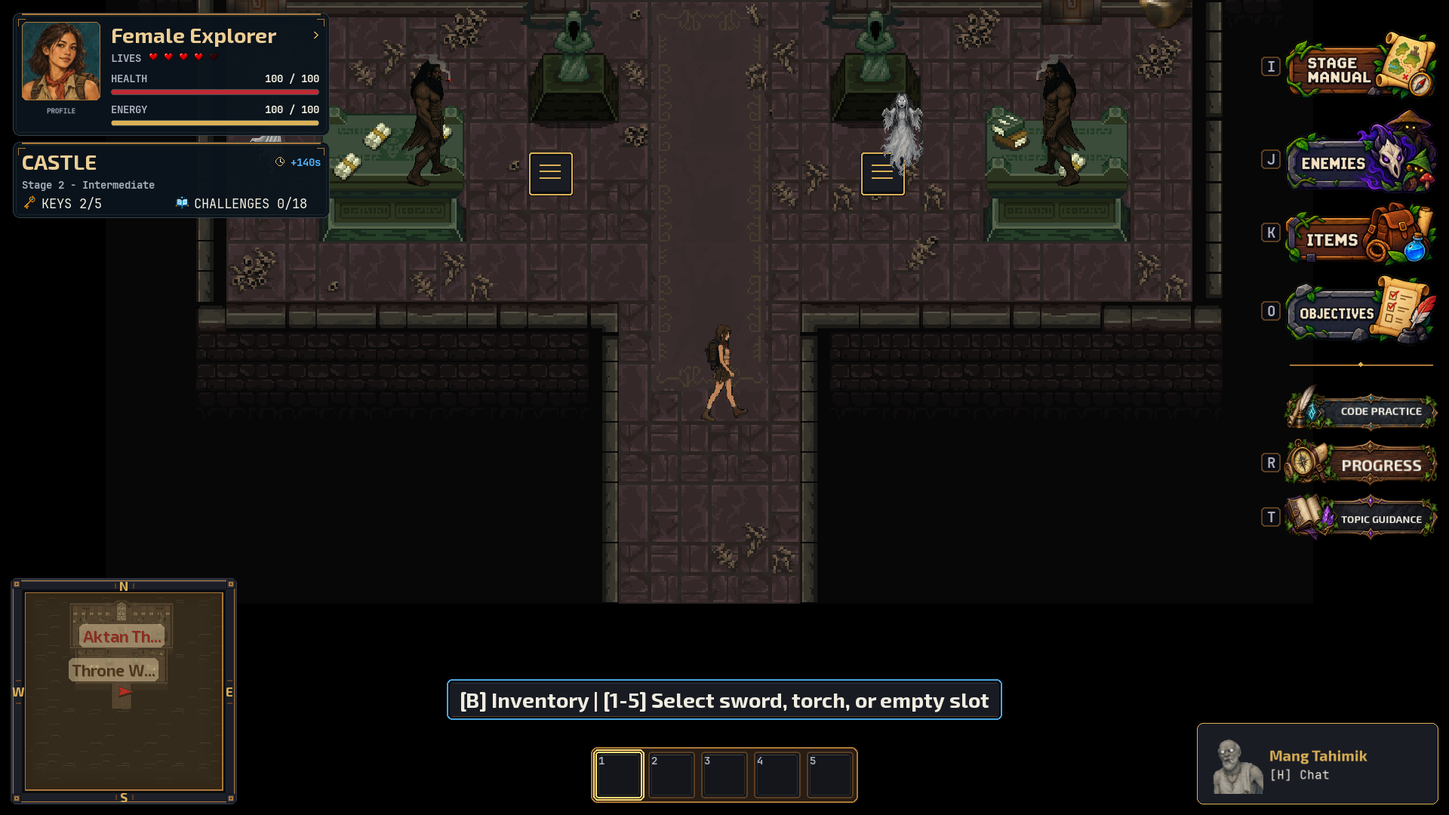
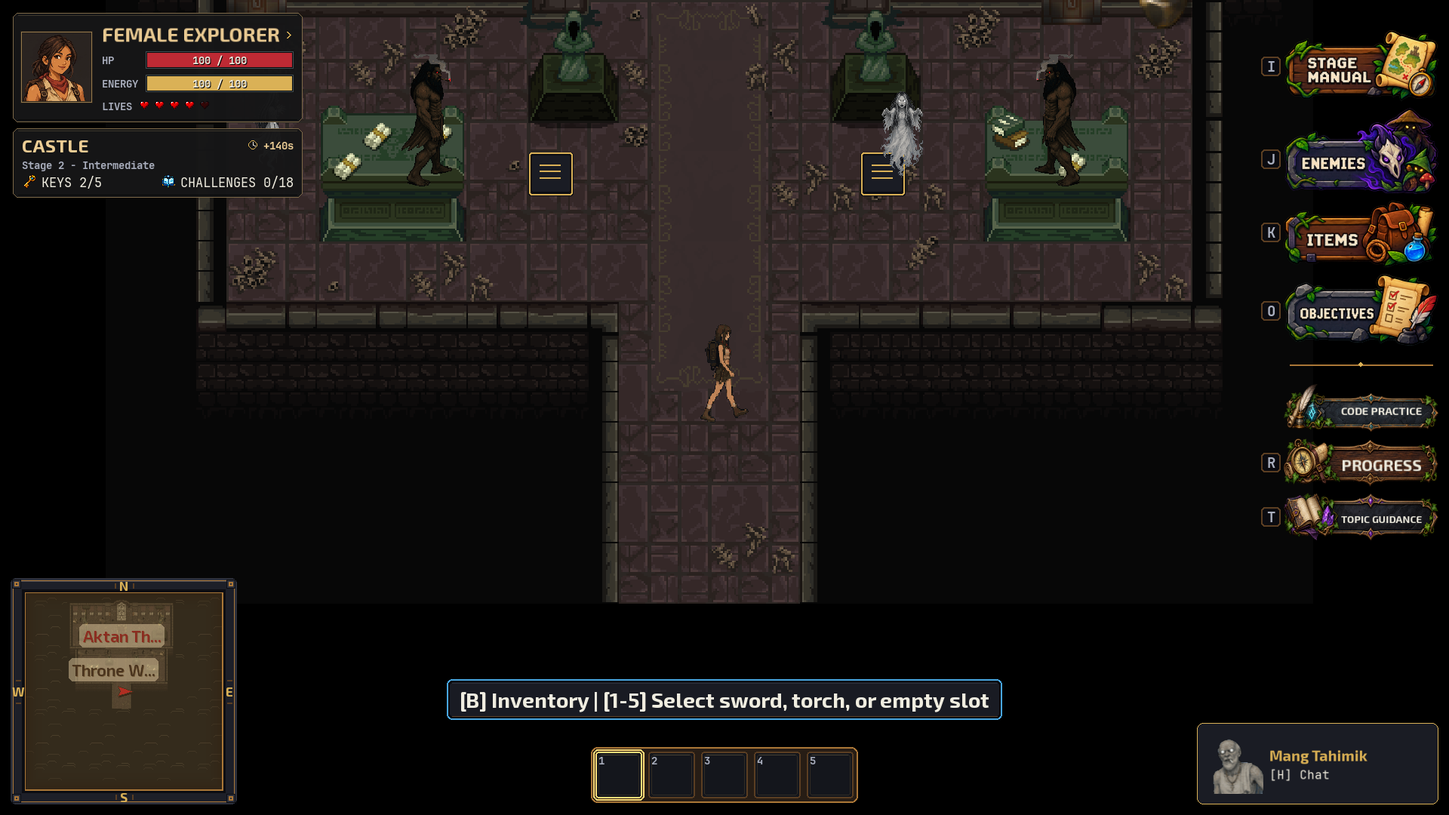
fix: match explorer portraits and HUD to pixel-art gameplay
Use simplified pixel-art-style portraits with nearest-neighbor scaling, warm charcoal cut-corner plates, and compact HP/energy gauges with centred values. Put lives below the gauges, reduce the stage heading, and carry the same treatment into the expanded profile.

Keep the preceding portrait assets available for rollback, preserve character IDs and saves, and document the new generation prompts. Update the actual gameplay preview.

Verified 34 character, text-layout and HCI tests in separate processes. Captured both explorers in actual Castle gameplay and opened their profiles by clicking the real character card.

Changed region(s): [[0.0, 0.0, 0.25, 0.275]]

diff --git a/src/ui/gameplay_hud.py b/src/ui/gameplay_hud.py
@@ -131,7 +131,7 @@ def _load_portrait_asset(identity):
 
 
 def draw_profile_frame(surface, rect, emphasized=False):
-    """Quiet ink-blue card, shared by the HUD and expanded profile."""
+    """A compact cut-corner game plate, shared with the expanded profile."""
     surface.blit(_profile_frame(rect.size, emphasized), rect)
 
 
@@ -139,15 +139,14 @@ def draw_profile_frame(surface, rect, emphasized=False):
 def _profile_frame(size, emphasized):
     panel = pygame.Surface(size, pygame.SRCALPHA)
     local = panel.get_rect()
-    pygame.draw.rect(panel, (11, 20, 28, 246), local, border_radius=9)
-    pygame.draw.rect(panel, (55, 65, 68), local, 1, border_radius=9)
-    rim = UI_COLORS['blue'] if emphasized else UI_COLORS['bronze']
-    pygame.draw.line(panel, rim, (12, 1), (local.width-13, 1), 2)
-    pygame.draw.rect(panel, (26, 38, 45), local.inflate(-8, -8), 1, border_radius=6)
-    # Short engraved corners keep the folklore palette without a heavy frame.
-    for x, sign in ((7, 1), (local.width-8, -1)):
-        pygame.draw.line(panel, rim, (x, 8), (x+sign*9, 8))
-        pygame.draw.line(panel, rim, (x, 8), (x, 17))
+    w, h = local.size
+    shape = [(0, 5), (5, 0), (w-6, 0), (w-1, 5),
+             (w-1, h-6), (w-6, h-1), (5, h-1), (0, h-6)]
+    rim = UI_COLORS['gold'] if emphasized else (125, 105, 72)
+    pygame.draw.polygon(panel, (22, 22, 23, 248), shape)
+    pygame.draw.polygon(panel, rim, shape, 1)
+    pygame.draw.line(panel, (62, 56, 44), (7, 3), (w-8, 3))
+    pygame.draw.line(panel, (8, 9, 10), (7, h-4), (w-8, h-4))
     return panel
 
 
@@ -265,21 +264,19 @@ def draw_framed_portrait(surface, portrait, rect):
 def _portrait_tile(portrait, size):
     width, height = size
     scale = max(width / portrait.get_width(), height / portrait.get_height())
-    image = pygame.transform.smoothscale(portrait, (
+    image = pygame.transform.scale(portrait, (
         max(width, round(portrait.get_width()*scale)),
         max(height, round(portrait.get_height()*scale))))
     tile = pygame.Surface(size, pygame.SRCALPHA)
     tile.blit(image, image.get_rect(center=tile.get_rect().center))
-    mask = pygame.Surface(size, pygame.SRCALPHA)
-    pygame.draw.rect(mask, (255, 255, 255), mask.get_rect(), border_radius=6)
-    tile.blit(mask, (0, 0), special_flags=pygame.BLEND_RGBA_MULT)
-    pygame.draw.rect(tile, UI_COLORS['bronze'], tile.get_rect(), 1, border_radius=6)
+    pygame.draw.rect(tile, (38, 32, 25), tile.get_rect(), 3)
+    pygame.draw.rect(tile, (151, 123, 78), tile.get_rect().inflate(-2, -2), 1)
     return tile
 
 
 @lru_cache(maxsize=16)
 def _heart_tiles(icon, size):
-    heart = pygame.transform.smoothscale(icon, (size, size))
+    heart = pygame.transform.scale(icon, (size, size))
     empty = heart.copy()
     empty.fill((70, 76, 86, 180), special_flags=pygame.BLEND_RGBA_MULT)
     return heart, empty
@@ -325,43 +322,47 @@ def character_card_layout(size, name_height=26, label_height=14):
     """Reserve real text rows before positioning portrait and resource bars."""
     width, height = size
     margin = max(10, round(min(width, height)*.016))
-    card_width = min(420, max(310, round(width*.35)), width-margin*2)
+    card_width = min(384, max(310, round(width*.32)), width-margin*2)
     name_height = max(22, name_height)
     life_height = max(16, label_height)
-    meter_height = label_height+14
-    portrait_size = min(104, max(76, round(card_width*.25)))
-    card_height = max(24+name_height+4+life_height+8+meter_height*2+8,
-                      portrait_size+36)
+    meter_height = max(20, label_height+6)
+    portrait_size = 96 if card_width >= 360 else 80
+    card_height = max(24+name_height+4+life_height+8+meter_height*2+6,
+                      portrait_size+20)
     card = pygame.Rect(margin, margin, card_width, card_height)
-    portrait = pygame.Rect(card.x+12, card.y+12, portrait_size, portrait_size)
-    left, right = portrait.right+14, card.right-14
+    portrait = pygame.Rect(card.x+10, card.centery-portrait_size//2, portrait_size, portrait_size)
+    left, right = portrait.right+12, card.right-12
     name = pygame.Rect(left, card.y+12, right-left-18, name_height)
-    lives = pygame.Rect(left, name.bottom+4, right-left, life_height)
-    health = pygame.Rect(left, lives.bottom+8, right-left, meter_height)
-    energy = pygame.Rect(left, health.bottom+8, right-left, meter_height)
+    health = pygame.Rect(left, name.bottom+4, right-left, meter_height)
+    energy = pygame.Rect(left, health.bottom+6, right-left, meter_height)
+    lives = pygame.Rect(left, energy.bottom+8, right-left, life_height)
     return card, portrait, name, lives, health, energy
 
 
 def draw_resource_meter(surface, font, rect, label, current, maximum,
                         fill_color=CRIMSON, emphasized=False):
-    """Aligned values above a full-width track keep narrow cards readable."""
+    """Classic labelled gauges with values inside the track, never over art."""
     known = current is not None and maximum is not None and maximum > 0
     amount = max(0, min(current, maximum)) if known else 0
     ratio = amount/maximum if known else 0
     value = f'{round(amount)} / {round(maximum)}' if known else '-- / --'
-    label_height = rect.height-14
-    label_surface = fit_text(font, label, DIM, (rect.width*.48, label_height))
-    number = fit_text(font, value, TEXT if known else DIM, (rect.width*.48, label_height))
-    surface.blit(label_surface, (rect.x, rect.y))
-    surface.blit(number, number.get_rect(topright=(rect.right, rect.y)))
-    bar = pygame.Rect(rect.x, rect.bottom-9, rect.width, 8)
-    pygame.draw.rect(surface, (38, 48, 55), bar, border_radius=3)
-    fill = bar.inflate(-2, -2)
+    gutter = min(max(font.size('ENERGY')[0], font.size(label)[0])+9, rect.width//2)
+    label_surface = fit_text(font, label, DIM, (gutter-7, rect.height))
+    surface.blit(label_surface, label_surface.get_rect(midleft=(rect.x, rect.centery)))
+    bar = pygame.Rect(rect.x+gutter, rect.y+1, rect.width-gutter, rect.height-2)
+    pygame.draw.rect(surface, (8, 10, 12), bar)
+    fill = bar.inflate(-4, -4)
     fill.width = round(fill.width*ratio)
     if fill.width:
-        pygame.draw.rect(surface, fill_color, fill, border_radius=2)
+        pygame.draw.rect(surface, fill_color, fill)
     pygame.draw.rect(surface, (212, 107, 98) if emphasized else (67, 78, 82),
-                     bar, 1, border_radius=3)
+                     bar, 1)
+    number = fit_text(font, value, TEXT if known else DIM, (bar.width-8, bar.height-4))
+    number_rect = number.get_rect(center=bar.center)
+    shadow = number.copy()
+    shadow.fill((0, 0, 0, 255), special_flags=pygame.BLEND_RGBA_MULT)
+    surface.blit(shadow, number_rect.move(1, 1))
+    surface.blit(number, number_rect)
     return bar
 
 
@@ -378,6 +379,7 @@ class GameplayHUD:
         self.font = body_font(15)
         self.bold = title_font(17)
         self.small = body_font(13, bold=True)
+        self.stage_heading = title_font(14)
         self.icons = self._load_icons()
         self.portrait = self._load_portrait()
         self.profile_rect = pygame.Rect(0, 0, 0, 0)
@@ -386,8 +388,8 @@ class GameplayHUD:
     def _progress_icons(self):
         if self._scaled_progress_icons is None:
             self._scaled_progress_icons = (
-                pygame.transform.smoothscale(self.icons[1], (21, 21)),
-                pygame.transform.smoothscale(self.icons[2], (21, 21)),
+                pygame.transform.scale(self.icons[1], (21, 21)),
+                pygame.transform.scale(self.icons[2], (21, 21)),
             )
         return self._scaled_progress_icons
 
@@ -407,9 +409,9 @@ class GameplayHUD:
         self.profile_rect = parts[0]
         # Everything stacks in one left-hand column under the profile card so
         # the panels read as a single group instead of floating apart.
-        secondary_height = self.small.get_height()+4 if height >= 640 else 0
+        secondary_height = self.small.get_height()+2 if height >= 640 else 0
         progress_rect = pygame.Rect(margin, self.profile_rect.bottom+8, self.profile_rect.width,
-                                    20+self.bold.get_height()+max(24, self.font.get_height())
+                                    18+self.stage_heading.get_height()+max(24, self.font.get_height())
                                     +secondary_height)
 
         self.draw_character_profile(current_hp, max_hp, in_combat,
@@ -435,21 +437,19 @@ class GameplayHUD:
         _, portrait_rect, name_rect, lives, health, energy = character_card_layout(
             self.screen.get_size(), self.bold.get_height(), self.small.get_height())
         draw_framed_portrait(self.screen, self.portrait, portrait_rect)
-        name = character_title(self.state.get('character_id', 'man')).title()
+        name = character_title(self.state.get('character_id', 'man'))
         title = fit_text(self.bold, name, NAME_GOLD, name_rect.size)
         self.screen.blit(title, name_rect)
         # The card opens a real profile screen; the chevron makes that visible.
         cx, cy = self.profile_rect.right-18, name_rect.centery
         pygame.draw.lines(self.screen, GOLD, False, [(cx-3, cy-4), (cx+1, cy), (cx-3, cy+4)], 2)
-        hint = fit_text(self.small, 'PROFILE', DIM, (portrait_rect.width, 13))
-        self.screen.blit(hint, hint.get_rect(midtop=(portrait_rect.centerx, portrait_rect.bottom+7)))
         label_width = max(36, self.small.size('LIVES')[0]+8)
         label = fit_text(self.small, 'LIVES', DIM, (label_width-8, lives.height))
         self.screen.blit(label, lives)
         heart_size = min(17, lives.height, max(10, (lives.width-label_width-12)//5))
         draw_heart_row(self.screen, self.icons, lives.x+label_width, lives.y,
                        self.state.get('hearts', 0), size=heart_size, gap=heart_size+3)
-        draw_resource_meter(self.screen, self.small, health, 'HEALTH', current_hp, max_hp,
+        draw_resource_meter(self.screen, self.small, health, 'HP', current_hp, max_hp,
                             HEAL_GREEN if hp_healing else CRIMSON,
                             emphasized=in_combat or bool(max_hp and current_hp is not None
                                                        and current_hp/max_hp <= LOW_HP_THRESHOLD))
@@ -488,22 +488,22 @@ class GameplayHUD:
         stage_name = self.stage.get("name", "Unknown Stage").upper()
         subtitle = self.stage.get("subtitle", "")
         self._profile_panel(rect)
-        header = pygame.Rect(rect.x+12, rect.y+9, rect.width-24, self.bold.get_height())
-        title = fit_text(self.bold, stage_name, NAME_GOLD, (header.width-106, header.height))
+        header = pygame.Rect(rect.x+12, rect.y+8, rect.width-24, self.stage_heading.get_height())
+        title = fit_text(self.stage_heading, stage_name, NAME_GOLD, (header.width-106, header.height))
         self.screen.blit(title, header)
         # Bonus time belongs to stage progress; a third floating card hid map.
         value = max(0, round(float(bonus_time or 0)))
-        label = fit_text(self.small, f'+{value}s', BLUE, (78, header.height))
+        label = fit_text(self.small, f'+{value}s', NAME_GOLD, (78, header.height))
         self.screen.blit(label, label.get_rect(midright=(header.right, header.centery)))
         clock_x = header.right-max(38, label.get_width())-14
         pygame.draw.circle(self.screen, GOLD, (clock_x, header.centery), 6, 1)
         pygame.draw.line(self.screen, TEXT, (clock_x, header.centery), (clock_x, header.centery-4))
         pygame.draw.line(self.screen, TEXT, (clock_x, header.centery), (clock_x+3, header.centery+1))
-        row_y = header.bottom+4
+        row_y = header.bottom+2
         if self.screen.get_height() >= 640:
             sub = fit_text(self.small, subtitle, DIM, (header.width, self.small.get_height()))
             self.screen.blit(sub, (header.x, row_y))
-            row_y += self.small.get_height()+4
+            row_y += self.small.get_height()+2
 
         # Scaled once and kept: these two never change size, and rescaling
         # them per frame was pure repeat work.

diff --git a/tests/test_character_hud.py b/tests/test_character_hud.py
@@ -105,14 +105,20 @@ class CharacterHudTests(unittest.TestCase):
         screen = pygame.Surface((1280, 720))
         hud = GameplayHUD(screen, {'hearts': 5}, get_stage('island'))
         _portrait_tile.cache_clear()
+        bars = []
+        def record_meter(*args, **kwargs):
+            bar = draw_resource_meter(*args, **kwargs)
+            bars.append(bar)
+            return bar
         for _ in range(2):
-            hud.draw(current_hp=40, max_hp=100, current_energy=30, max_energy=100,
-                     hp_healing=True, energy_boosted=True)
+            with patch('src.ui.gameplay_hud.draw_resource_meter', side_effect=record_meter):
+                hud.draw(current_hp=40, max_hp=100, current_energy=30, max_energy=100,
+                         hp_healing=True, energy_boosted=True)
         self.assertEqual(_portrait_tile.cache_info().misses, 1)
         self.assertGreaterEqual(_portrait_tile.cache_info().hits, 1)
-        _, _, _, _, health, energy = character_card_layout(screen.get_size(), hud.bold.get_height(), hud.small.get_height())
-        self.assertEqual(screen.get_at((health.x+4, health.bottom-5))[:3], HEAL_GREEN)
-        self.assertEqual(screen.get_at((energy.x+4, energy.bottom-5))[:3], TORCH_AMBER)
+        health, energy = bars[-2:]
+        self.assertEqual(screen.get_at((health.x+4, health.y+3))[:3], HEAL_GREEN)
+        self.assertEqual(screen.get_at((energy.x+4, energy.y+3))[:3], TORCH_AMBER)
 
     def test_expanded_profile_fits_and_closes_with_keyboard_or_mouse(self):
         for size in ((640, 480), (1280, 720), (1920, 1080)):

diff --git a/src/screens/profile.py b/src/screens/profile.py
@@ -42,10 +42,10 @@ def profile_layout(size, title_height=40, name_height=38, stat_height=16):
     """One portrait and separate measured text rows, including at 640x480."""
     width, height = size
     pad, gap = 24, 24
-    panel_width = min(640, width-32)
-    portrait_size = min(200, round(panel_width*.32))
+    panel_width = min(600, width-32)
+    portrait_size = min(192, round(panel_width*.32))
     lives_height = max(24, stat_height)
-    meter_height = stat_height+14
+    meter_height = max(24, stat_height+6)
     column_height = name_height+8+lives_height+16+meter_height*2+12
     body_height = max(portrait_size, column_height)
     panel = pygame.Rect(0, 0, panel_width,
@@ -89,7 +89,7 @@ def profile_screen(screen, background=None, name=None,
                             font_name.get_height(), font_bar.get_height())
     pr, back_r = layout['panel'], layout['back']
     title_surface = fit_text(font_title, 'EXPLORER PROFILE', UI_COLORS['gold'], layout['title'].size)
-    name_surface = fit_text(font_name, name.title(), NAME_GOLD, layout['name'].size)
+    name_surface = fit_text(font_name, name.upper(), NAME_GOLD, layout['name'].size)
     # The snapshot never changes while this modal is open.
     small = pygame.transform.smoothscale(background, (SCREEN_W//8, SCREEN_H//8))
     blurred = pygame.transform.smoothscale(small, (SCREEN_W, SCREEN_H))

diff --git a/src/data/characters.py b/src/data/characters.py
@@ -5,14 +5,14 @@ CHARACTERS = {
         'description': 'A wandering adventurer ready to explore forgotten paths. Face folklore creatures and unlock new routes through Python.',
         'short_description': 'Explore forgotten paths.\nLearn Python as you fight.',
         'preview': 'assets/images/frames/main_character/idle/no_sword/idle_backward/frame_1.png',
-        'portrait': 'assets/images/portraits/explorer_man.webp',
+        'portrait': 'assets/images/portraits/explorer_man_pixel.webp',
     },
     'woman': {
         'title': 'FEMALE EXPLORER', 'label': 'WOMAN',
         'description': 'A determined adventurer setting out into the unknown. Explore the castle, master coding challenges, and forge your own path.',
         'short_description': 'Brave the unknown.\nSolve puzzles and explore.',
         'preview': 'assets/images/frames/girl_main_character/walking/south/frame_0.png',
-        'portrait': 'assets/images/portraits/explorer_woman.webp',
+        'portrait': 'assets/images/portraits/explorer_woman_pixel.webp',
     },
 }
 

diff --git a/docs/character-hud.md b/docs/character-hud.md
@@ -1,53 +1,49 @@
-# Explorer portraits and character HUD
+# Explorer HUD: pixel-art revision
 
-The top-left HUD now uses a compact ink-blue card, a dedicated portrait for each
-explorer, labelled lives, and health/energy values above full-width bars. The
-stage card aligns to it; bonus time sits with stage progress. Both cards use
-measured text rows and keep clear of the minimap at supported small sizes.
-Clicking the character card opens the matching expanded profile.
+The active character UI uses pixel-art-style portraits, warm charcoal plates
+with clipped corners and thin bronze edges, and compact HP/energy gauges with
+values inside their tracks. Lives sit below the gauges. The portrait no longer
+has a separate PROFILE caption; its chevron still opens the expanded profile.
+Stage progress uses a smaller heading and groups its bonus time with the stage.
 
-## Artwork
+## Artwork and integration
 
-Created with the built-in image-generation tool (not the CLI). These are
-generated illustrations with an ink-and-gouache aesthetic, not a claim of
-human-painted provenance. The male portrait keeps the salakot, khaki travel
-clothes and red scarf; the female portrait is a dedicated illustration rather
-than an enlarged walking-sprite crop. Both use the same matte pigment palette
-and a simple teal backdrop. The original framed asset and walking sprites
-are retained.
+The two portraits were created with the built-in image-generation tool, not
+the CLI. They are generated pixel-art-style illustrations, not a claim of
+human-pixelled artwork. Both retain the salakot/travel clothing or dark hair,
+red scarf and backpack details associated with the existing explorers.
 
-Project assets:
+Active project files:
 
-- `assets/images/portraits/explorer_man.webp`
-- `assets/images/portraits/explorer_woman.webp`
+- `assets/images/portraits/explorer_man_pixel.webp`
+- `assets/images/portraits/explorer_woman_pixel.webp`
 
-Each source is 1254 x 1254 pixels. The project copies are WebP quality 90
-encodings (about 180 KB each), with composition unchanged. UI scaling keeps
-aspect ratio and caches the fitted tiles; portraits are not resized on every
-frame. `src/data/characters.py` selects the image by saved character ID.
+The original 1254 x 1254 outputs were encoded as WebP quality 95 for the game.
+No composition or character edits were made during encoding. The renderer
+uses nearest-neighbor scaling and caches portrait tiles. The preceding
+painted portraits remain in the repository but are not selected by character
+data. Walking sprites, character IDs, saves and gameplay rules are unchanged.
 
 ## Generation prompts
 
 ### Male explorer
 
-Use case: stylized-concept. Asset type: square portrait illustration for the small top-left character HUD in CodeBreak, a Philippine folklore adventure RPG. Style: expressive ink-and-gouache illustration on subtly textured paper, like a carefully drawn illustrated travel journal. Visible imperfect brush edges, economical dark ink lines, flat matte pigment shapes, natural facial asymmetry and ordinary human features. Gentle and aesthetically refined. No glossy rendering, no faux pixel grid, no photorealism, no 3D, no cinematic bloom, no hyper-detailed AI fantasy treatment, no anime doll eyes. Composition: single head-and-shoulders portrait with a large readable face, nearly front-facing with a slight turn to the viewer's right, relaxed attentive expression. Full top of head and any headwear visible with a small margin; shoulders cropped at lower edge. Simple full-bleed muted midnight teal painted backdrop. Warm tan skin, dark umber ink, muted ochre clothing, warm terracotta red scarf. Strong silhouette and legible face when reduced to 96 pixels. Square image, artwork only, no ornamental frame, no UI, no text, no watermark, no symbols. Subject: one young adult Filipino male explorer with short tousled black hair, brown eyes, a modest woven salakot straw hat, simple worn khaki travel shirt and backpack straps. Hat has a broad simple curved silhouette but must not cover his eyes. Friendly thoughtful expression, lightly sun-weathered skin. Hand-painted character portrait, not a character sheet.
+Use case: stylized-concept. Asset: a square character bust portrait for the tiny HUD of a 2D pixel-art Philippine folklore adventure game. Make authentic, deliberately simplified 16-bit RPG pixel art, as if hand-pixeled on a 96 by 96 grid and enlarged with nearest-neighbor. Every edge is a staircase of clean square pixels. Use small, coherent pixel clusters and only about 24 flat colors. Two or three shading steps per material, no intermediate soft shading. A strong, appealing face and crisp silhouette are crucial. Absolutely no photographic facial details, no brush or paper texture, no painterly rendering, no smooth gradients, no anti-aliased contours, no realistic skin, no 3D, no cinematic light, no pseudo-pixelated photograph. Head and upper chest fully visible, straight posture, slight three-quarter turn toward the viewer's right. A small restrained smile and natural modest eyes; avoid large anime eyes. Adult Filipino explorer with warm brown skin. Clean flat dark charcoal-brown background. No frame, no border, no text, no symbols, no watermark. Keep the entire head and any hat inside the square, with generous 8% clearance above the head and both sides. Use muted tan, umber, dull terracotta and warm cream; simple shapes suited to the small pixel game sprites. One male explorer in his early twenties, short slightly messy dark hair, simple woven salakot hat, tan travel shirt, dull red neck scarf and dark backpack straps. Hat is a simple recognizable form, without thousands of woven details. Pixel faces should feel like a charming original game character, not a model or celebrity.
 
 ### Female explorer
 
-Use case: stylized-concept. Asset type: square portrait illustration for the small top-left character HUD in CodeBreak, a Philippine folklore adventure RPG. Style: expressive ink-and-gouache illustration on subtly textured paper, like a carefully drawn illustrated travel journal. Visible imperfect brush edges, economical dark ink lines, flat matte pigment shapes, natural facial asymmetry and ordinary human features. Gentle and aesthetically refined. No glossy rendering, no faux pixel grid, no photorealism, no 3D, no cinematic bloom, no hyper-detailed AI fantasy treatment, no anime doll eyes. Composition: single head-and-shoulders portrait with a large readable face, nearly front-facing with a slight turn to the viewer's right, relaxed attentive expression. Full top of head and any headwear visible with a small margin; shoulders cropped at lower edge. Simple full-bleed muted midnight teal painted backdrop. Warm tan skin, dark umber ink, muted ochre clothing, warm terracotta red scarf. Strong silhouette and legible face when reduced to 96 pixels. Square image, artwork only, no ornamental frame, no UI, no text, no watermark, no symbols. Subject: one young adult Filipino female explorer with dark brown shoulder-length slightly wavy hair, a few loose strands, brown eyes, a practical sleeveless khaki travel top, backpack straps and a small terracotta scarf at the neck. No hat. Friendly quietly confident expression, lightly sun-weathered skin. Practical adventurer, natural proportions, no glamour makeup. Hand-painted character portrait, not a character sheet.
+Use case: stylized-concept. Asset: a square character bust portrait for the tiny HUD of a 2D pixel-art Philippine folklore adventure game. Make authentic, deliberately simplified 16-bit RPG pixel art, as if hand-pixeled on a 96 by 96 grid and enlarged with nearest-neighbor. Every edge is a staircase of clean square pixels. Use small, coherent pixel clusters and only about 24 flat colors. Two or three shading steps per material, no intermediate soft shading. A strong, appealing face and crisp silhouette are crucial. Absolutely no photographic facial details, no brush or paper texture, no painterly rendering, no smooth gradients, no anti-aliased contours, no realistic skin, no 3D, no cinematic light, no pseudo-pixelated photograph. Head and upper chest fully visible, straight posture, slight three-quarter turn toward the viewer's right. A small restrained smile and natural modest eyes; avoid large anime eyes. Adult Filipino explorer with warm brown skin. Clean flat dark charcoal-brown background. No frame, no border, no text, no symbols, no watermark. Keep the entire head and any hat inside the square, with generous 8% clearance above the head and both sides. Use muted tan, umber, dull terracotta and warm cream; simple shapes suited to the small pixel game sprites. One female explorer in her early twenties, dark brown shoulder-length hair partly tied behind her head, simple tan sleeveless travel shirt, dull red neck scarf and dark backpack straps. No hat or makeup. Pixel faces should feel like a charming original game character, not a model or celebrity.
 
 ## Verification
 
-34 tests pass across `test_character_hud.py`, `test_character_selection.py`,
-`test_room_combat_regressions.py`, `test_text_layout_regressions.py` and
-`test_hci_navigation.py`, each in its own process. Coverage includes both
-portraits, legacy character IDs, cached images, 640x480 through 2560x1440,
-small, normal and large text, text bounds, minimap clearance, clamped/unknown stats,
-healing/energy highlights, keyboard/mouse dismissal and character persistence.
+34 tests pass across character HUD, selection, room combat regressions, text
+layout and HCI navigation, with each module run in a separate process. Layout
+coverage spans 640x480 through 2560x1440 and font sizes 12, 20 and 28. Checks
+cover rendered text bounds, separate resource/life rows, minimap clearance,
+unknown and clamped stats, healing/energy highlights and portrait caches.
 
-`python tools/check_character_hud.py` captures actual Pygame gameplay in the
-Castle for both characters and opens each profile by clicking its real HUD
-card. It uses in-memory fixtures and no save slot. Four frames were visually
-inspected; no full campaign playthrough was performed for this UI change.
-The committed gameplay preview is `docs/character-hud-preview.png`.
-
+`python tools/check_character_hud.py --output-dir /tmp/character-hud-v2`
+captures actual Castle gameplay for both explorers, then opens each expanded
+profile using the real card click. No save slot is used. Four captured frames
+were inspected. `docs/character-hud-preview.png` is the updated gameplay view.
+A full campaign playthrough was not performed for this visual revision.
